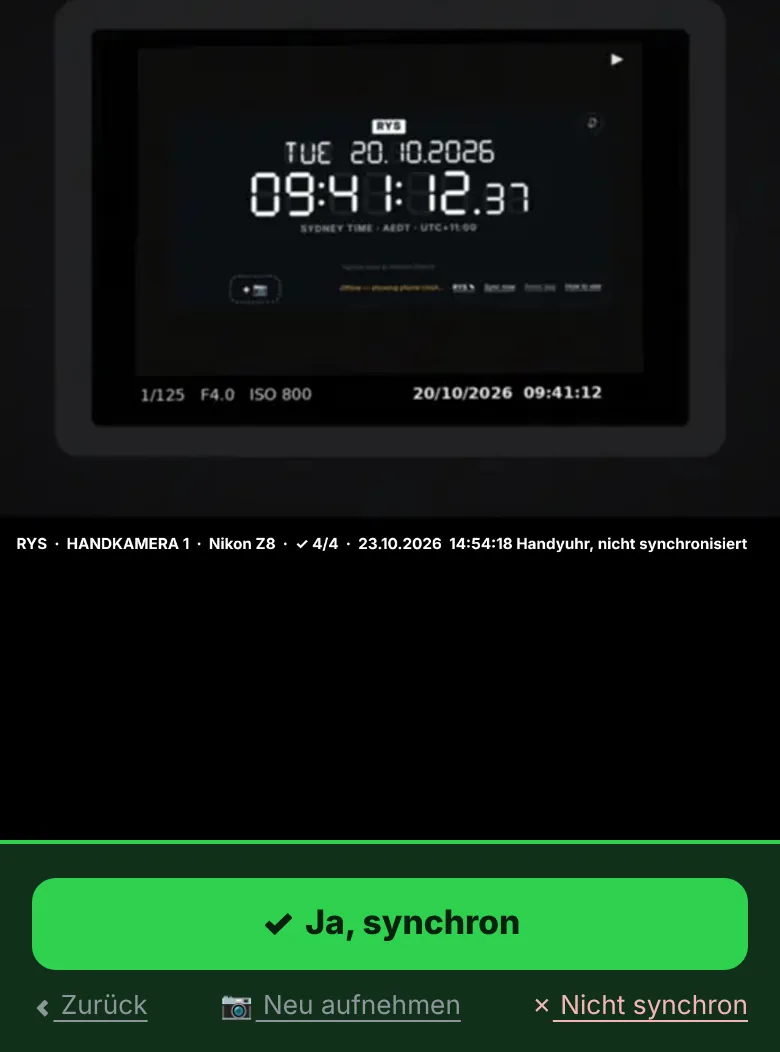
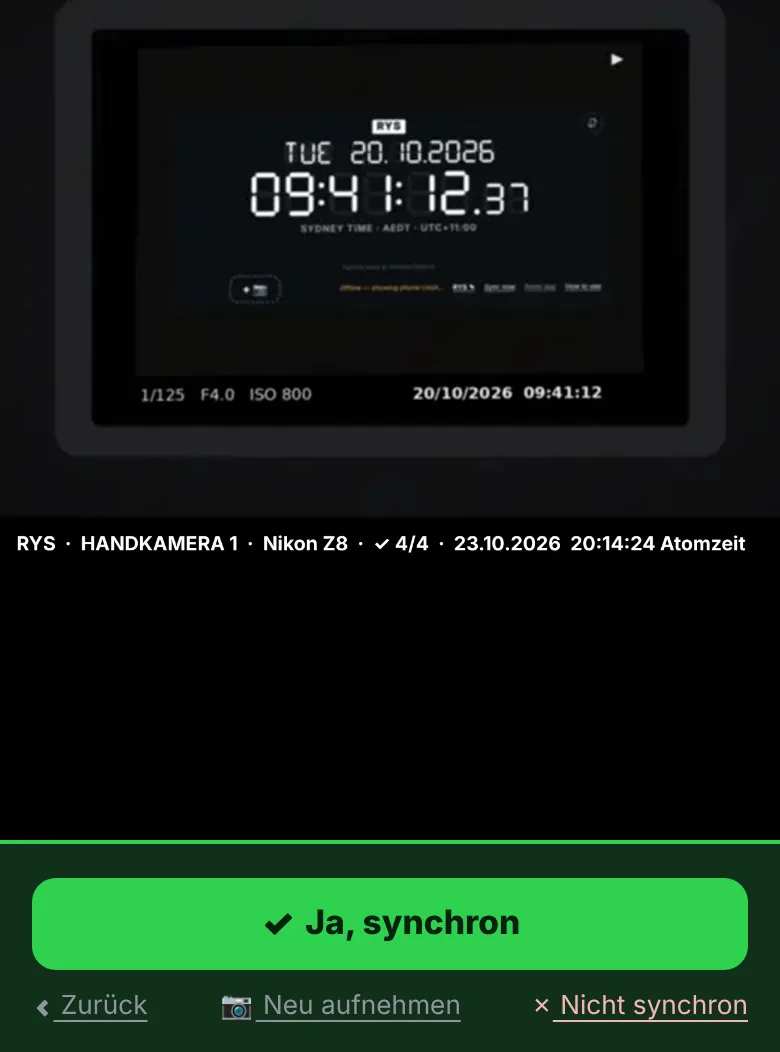
Guide pictures taken with the clock synced: atomic time, not phone clock
Claude-Session: https://claude.ai/code/session_01PWvFJNTaft5vB7ZZnHn1Wn

Changed region(s): [[0.3385, 0.4867, 0.9538, 0.5475], [0.0923, 0.4867, 0.3077, 0.5475], [0.0308, 0.4867, 0.0615, 0.5475]]

diff --git a/index.html b/index.html
@@ -2,7 +2,7 @@
 <html lang="en">
 <head>
 <meta charset="utf-8">
-<meta name="app-ver" content="20261023063752">
+<meta name="app-ver" content="20261023091500">
 <meta name="viewport" content="width=device-width,initial-scale=1,viewport-fit=cover">
 <title>Camera check/Atomic Clock by RYS</title>
 <meta name="description" content="All in one app: camera settings, an atomic clock, camera photo sync and direct sending to your camera check groups.">
@@ -695,16 +695,16 @@ html:not(.land) .taphint{transform:translateY(calc(-1 * var(--boxh, 0px))); tran
 <div id="guide" class="viewer guide" hidden role="dialog" aria-modal="true" aria-labelledby="gTitle">
   <div class="view-top g-top"><b id="gTitle">How to use</b><button id="gClose" class="g-close" type="button" aria-label="Close the guide">✕</button></div>
   <ol class="g-list">
-    <li class="g-step"><div class="g-num">1</div><div class="g-body"><p>Tap on <span class="gk w">✎</span> and add your initials.</p><img src="guide/1.webp?v=15" alt="" loading="lazy" width="300" height="70"></div></li>
-    <li class="g-step"><div class="g-num">2</div><div class="g-body"><p>Tap <span class="gk d">+ 📷</span> to add your first camera, then pick its brand and model.</p><img src="guide/2.webp?v=15" alt="" loading="lazy" width="300" height="74"></div></li>
-    <li class="g-step"><div class="g-num">3</div><div class="g-body"><p>Check your settings: set each one on the camera, then tick it.</p><img src="guide/3.webp?v=15" alt="" loading="lazy" width="354" height="373"></div></li>
-    <li class="g-step"><div class="g-num">4</div><div class="g-body"><p>Add additional cameras if needed with <span class="gk d">+ Add camera</span>.</p><img src="guide/4.webp?v=15" alt="" loading="lazy" width="354" height="69"></div></li>
-    <li class="g-step"><div class="g-num">5</div><div class="g-body"><p>Tap on <span class="gk g">📷→🕒</span> when done.</p><img src="guide/5.webp?v=15" alt="" loading="lazy" width="354" height="66"></div></li>
-    <li class="g-step"><div class="g-num">6</div><div class="g-body"><p>Shoot the clock with every camera.</p><img src="guide/6.webp?v=15" alt="" loading="lazy" width="390" height="305"></div></li>
-    <li class="g-step"><div class="g-num">7</div><div class="g-body"><p>Play back the clock shot on the camera, tap <span class="gk g">📱→📷</span> and photograph the camera's screen.</p><img src="guide/7.webp?v=15" alt="" loading="lazy" width="390" height="626"></div></li>
-    <li class="g-step"><div class="g-num">8</div><div class="g-body"><p>If the times match to the second, tap <span class="gk g">✓ Yes, in sync</span>. If not, fix the camera's clock and tap <b>📷 Retake</b>.</p><img src="guide/8.webp?v=15" alt="" loading="lazy" width="390" height="526"></div></li>
-    <li class="g-step"><div class="g-num">9</div><div class="g-body"><p>Tap <span class="gk g">Next camera →</span> for the next camera's screen.</p><img src="guide/9.webp?v=15" alt="" loading="lazy" width="390" height="75"></div></li>
-    <li class="g-step"><div class="g-num">10</div><div class="g-body"><p>Tap <span class="gk g">🖼→📨</span>, then <span class="gk g">📨</span> and pick your group chat.</p><img src="guide/10.webp?v=16" alt="" loading="lazy" width="390" height="380"></div></li>
+    <li class="g-step"><div class="g-num">1</div><div class="g-body"><p>Tap on <span class="gk w">✎</span> and add your initials.</p><img src="guide/1.webp?v=17" alt="" loading="lazy" width="300" height="70"></div></li>
+    <li class="g-step"><div class="g-num">2</div><div class="g-body"><p>Tap <span class="gk d">+ 📷</span> to add your first camera, then pick its brand and model.</p><img src="guide/2.webp?v=17" alt="" loading="lazy" width="300" height="74"></div></li>
+    <li class="g-step"><div class="g-num">3</div><div class="g-body"><p>Check your settings: set each one on the camera, then tick it.</p><img src="guide/3.webp?v=17" alt="" loading="lazy" width="354" height="373"></div></li>
+    <li class="g-step"><div class="g-num">4</div><div class="g-body"><p>Add additional cameras if needed with <span class="gk d">+ Add camera</span>.</p><img src="guide/4.webp?v=17" alt="" loading="lazy" width="354" height="69"></div></li>
+    <li class="g-step"><div class="g-num">5</div><div class="g-body"><p>Tap on <span class="gk g">📷→🕒</span> when done.</p><img src="guide/5.webp?v=17" alt="" loading="lazy" width="354" height="66"></div></li>
+    <li class="g-step"><div class="g-num">6</div><div class="g-body"><p>Shoot the clock with every camera.</p><img src="guide/6.webp?v=17" alt="" loading="lazy" width="390" height="305"></div></li>
+    <li class="g-step"><div class="g-num">7</div><div class="g-body"><p>Play back the clock shot on the camera, tap <span class="gk g">📱→📷</span> and photograph the camera's screen.</p><img src="guide/7.webp?v=17" alt="" loading="lazy" width="390" height="626"></div></li>
+    <li class="g-step"><div class="g-num">8</div><div class="g-body"><p>If the times match to the second, tap <span class="gk g">✓ Yes, in sync</span>. If not, fix the camera's clock and tap <b>📷 Retake</b>.</p><img src="guide/8.webp?v=17" alt="" loading="lazy" width="390" height="526"></div></li>
+    <li class="g-step"><div class="g-num">9</div><div class="g-body"><p>Tap <span class="gk g">Next camera →</span> for the next camera's screen.</p><img src="guide/9.webp?v=17" alt="" loading="lazy" width="390" height="75"></div></li>
+    <li class="g-step"><div class="g-num">10</div><div class="g-body"><p>Tap <span class="gk g">🖼→📨</span>, then <span class="gk g">📨</span> and pick your group chat.</p><img src="guide/10.webp?v=17" alt="" loading="lazy" width="390" height="380"></div></li>
     <li class="g-step"><div class="g-num">⤓</div><div class="g-body"><b>Install the app</b><p>
       · <b>iPhone</b> (Safari): tap <b>Share</b> □↑ (on newer iOS it's under <b>⋯</b>), then <b>Add to Home Screen</b> → <b>Add</b>.<br>
       · <b>Android</b> (Chrome): tap <b>⋮</b> top right, then <b>Add to home screen</b> → <b>Install</b>.</p></div></li>
@@ -3119,16 +3119,16 @@ function trNode(n){
       navigator.serviceWorker.register('./sw.js');
     }
     var GUIDE_DE = `
-    <li class="g-step"><div class="g-num">1</div><div class="g-body"><p>Tippe auf <span class="gk w">✎</span> und gib dein Kürzel ein.</p><img src="guide/de/1.webp?v=15" alt="" loading="lazy" width="300" height="70"></div></li>
-    <li class="g-step"><div class="g-num">2</div><div class="g-body"><p>Tippe auf <span class="gk d">+ 📷</span>, um deine erste Kamera hinzuzufügen, und wähle dann Marke und Modell.</p><img src="guide/de/2.webp?v=15" alt="" loading="lazy" width="300" height="74"></div></li>
-    <li class="g-step"><div class="g-num">3</div><div class="g-body"><p>Prüfe deine Einstellungen: Stelle jede an der Kamera ein und hake sie dann ab.</p><img src="guide/de/3.webp?v=15" alt="" loading="lazy" width="354" height="373"></div></li>
-    <li class="g-step"><div class="g-num">4</div><div class="g-body"><p>Füge bei Bedarf weitere Kameras hinzu mit <span class="gk d">+ Kamera hinzufügen</span>.</p><img src="guide/de/4.webp?v=15" alt="" loading="lazy" width="354" height="69"></div></li>
-    <li class="g-step"><div class="g-num">5</div><div class="g-body"><p>Tippe auf <span class="gk g">📷→🕒</span>, wenn du fertig bist.</p><img src="guide/de/5.webp?v=15" alt="" loading="lazy" width="354" height="66"></div></li>
-    <li class="g-step"><div class="g-num">6</div><div class="g-body"><p>Fotografiere die Uhr mit jeder Kamera.</p><img src="guide/de/6.webp?v=15" alt="" loading="lazy" width="390" height="305"></div></li>
-    <li class="g-step"><div class="g-num">7</div><div class="g-body"><p>Spiele die Aufnahme der Uhr an der Kamera ab, tippe auf <span class="gk g">📱→📷</span> und fotografiere das Kameradisplay.</p><img src="guide/de/7.webp?v=15" alt="" loading="lazy" width="390" height="626"></div></li>
-    <li class="g-step"><div class="g-num">8</div><div class="g-body"><p>Stimmen die Zeiten auf die Sekunde überein, tippe auf <span class="gk g">✓ Ja, synchron</span>. Wenn nicht, stelle die Kamerauhr richtig und tippe auf <b>📷 Neu aufnehmen</b>.</p><img src="guide/de/8.webp?v=15" alt="" loading="lazy" width="390" height="526"></div></li>
-    <li class="g-step"><div class="g-num">9</div><div class="g-body"><p>Tippe auf <span class="gk g">Nächste Kamera →</span> für das Display der nächsten Kamera.</p><img src="guide/de/9.webp?v=15" alt="" loading="lazy" width="390" height="75"></div></li>
-    <li class="g-step"><div class="g-num">10</div><div class="g-body"><p>Tippe auf <span class="gk g">🖼→📨</span>, dann auf <span class="gk g">📨</span> und wähle deinen Gruppenchat.</p><img src="guide/de/10.webp?v=16" alt="" loading="lazy" width="390" height="380"></div></li>
+    <li class="g-step"><div class="g-num">1</div><div class="g-body"><p>Tippe auf <span class="gk w">✎</span> und gib dein Kürzel ein.</p><img src="guide/de/1.webp?v=17" alt="" loading="lazy" width="300" height="70"></div></li>
+    <li class="g-step"><div class="g-num">2</div><div class="g-body"><p>Tippe auf <span class="gk d">+ 📷</span>, um deine erste Kamera hinzuzufügen, und wähle dann Marke und Modell.</p><img src="guide/de/2.webp?v=17" alt="" loading="lazy" width="300" height="74"></div></li>
+    <li class="g-step"><div class="g-num">3</div><div class="g-body"><p>Prüfe deine Einstellungen: Stelle jede an der Kamera ein und hake sie dann ab.</p><img src="guide/de/3.webp?v=17" alt="" loading="lazy" width="354" height="373"></div></li>
+    <li class="g-step"><div class="g-num">4</div><div class="g-body"><p>Füge bei Bedarf weitere Kameras hinzu mit <span class="gk d">+ Kamera hinzufügen</span>.</p><img src="guide/de/4.webp?v=17" alt="" loading="lazy" width="354" height="69"></div></li>
+    <li class="g-step"><div class="g-num">5</div><div class="g-body"><p>Tippe auf <span class="gk g">📷→🕒</span>, wenn du fertig bist.</p><img src="guide/de/5.webp?v=17" alt="" loading="lazy" width="354" height="66"></div></li>
+    <li class="g-step"><div class="g-num">6</div><div class="g-body"><p>Fotografiere die Uhr mit jeder Kamera.</p><img src="guide/de/6.webp?v=17" alt="" loading="lazy" width="390" height="305"></div></li>
+    <li class="g-step"><div class="g-num">7</div><div class="g-body"><p>Spiele die Aufnahme der Uhr an der Kamera ab, tippe auf <span class="gk g">📱→📷</span> und fotografiere das Kameradisplay.</p><img src="guide/de/7.webp?v=17" alt="" loading="lazy" width="390" height="626"></div></li>
+    <li class="g-step"><div class="g-num">8</div><div class="g-body"><p>Stimmen die Zeiten auf die Sekunde überein, tippe auf <span class="gk g">✓ Ja, synchron</span>. Wenn nicht, stelle die Kamerauhr richtig und tippe auf <b>📷 Neu aufnehmen</b>.</p><img src="guide/de/8.webp?v=17" alt="" loading="lazy" width="390" height="526"></div></li>
+    <li class="g-step"><div class="g-num">9</div><div class="g-body"><p>Tippe auf <span class="gk g">Nächste Kamera →</span> für das Display der nächsten Kamera.</p><img src="guide/de/9.webp?v=17" alt="" loading="lazy" width="390" height="75"></div></li>
+    <li class="g-step"><div class="g-num">10</div><div class="g-body"><p>Tippe auf <span class="gk g">🖼→📨</span>, dann auf <span class="gk g">📨</span> und wähle deinen Gruppenchat.</p><img src="guide/de/10.webp?v=17" alt="" loading="lazy" width="390" height="380"></div></li>
     <li class="g-step"><div class="g-num">⤓</div><div class="g-body"><b>App installieren</b><p>
       · <b>iPhone</b> (Safari): Tippe auf <b>Teilen</b> □↑ (bei neuerem iOS unter <b>⋯</b>), dann <b>Zum Home-Bildschirm</b> → <b>Hinzufügen</b>.<br>
       · <b>Android</b> (Chrome): Tippe oben rechts auf <b>⋮</b>, dann <b>Zum Startbildschirm hinzufügen</b> → <b>Installieren</b>.</p></div></li>
